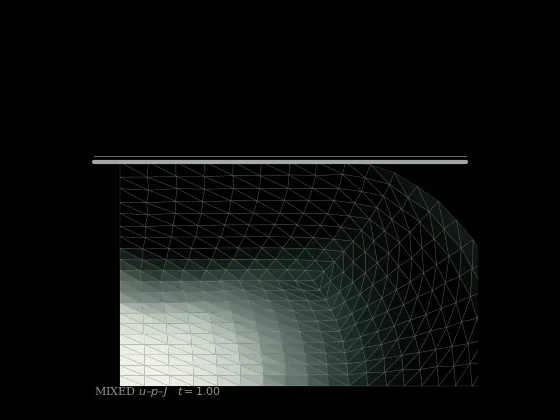
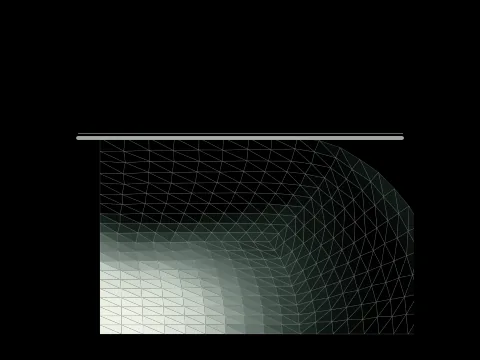
update bg

Changed region(s): [[0.1562, 0.3667, 0.875, 0.9472]]

diff --git a/stylesheet.css b/stylesheet.css
@@ -209,19 +209,27 @@ h3 {
 }
 
 .fem-simulation-compression {
-  --fem-opacity: 0.15;
-  top: 4%;
-  right: -3%;
-  width: clamp(420px, 42vw, 620px);
+  --fem-opacity: 0.14;
+  top: 7%;
+  right: 0;
+  width: clamp(300px, 32vw, 480px);
   transform: rotate(-1.5deg);
 }
 
 .fem-simulation-torsion {
   --fem-opacity: 0.13;
-  bottom: -3%;
-  left: -4%;
-  width: clamp(460px, 44vw, 680px);
+  bottom: 0;
+  left: 0;
+  width: clamp(360px, 36vw, 560px);
   transform: rotate(1deg);
+}
+
+.fem-simulation-wafer {
+  --fem-opacity: 0.12;
+  top: 34%;
+  right: 2%;
+  width: clamp(280px, 27vw, 420px);
+  transform: rotate(-1deg);
 }
 
 main,
@@ -1142,17 +1150,25 @@ main section[id] {
   }
 
   .fem-simulation-compression {
-    --fem-opacity: 0.1;
-    top: 7%;
-    right: -43%;
-    width: 112vw;
+    --fem-opacity: 0.09;
+    top: 9%;
+    right: -30%;
+    width: 92vw;
   }
 
   .fem-simulation-torsion {
-    --fem-opacity: 0.09;
+    --fem-opacity: 0.08;
     bottom: -4%;
-    left: -10%;
-    width: 108vw;
+    left: -18%;
+    width: 96vw;
+  }
+
+  .fem-simulation-wafer {
+    --fem-opacity: 0.075;
+    top: 43%;
+    right: -3%;
+    bottom: auto;
+    width: 72vw;
   }
 
 }

diff --git a/index.html b/index.html
@@ -31,8 +31,8 @@
   <div class="fem-simulation-backdrop" aria-hidden="true">
     <img
       class="fem-simulation fem-simulation-compression"
-      width="560"
-      height="420"
+      width="480"
+      height="360"
       alt=""
       decoding="async"
       fetchpriority="low"
@@ -41,13 +41,23 @@
     >
     <img
       class="fem-simulation fem-simulation-torsion"
-      width="640"
-      height="360"
+      width="560"
+      height="300"
       alt=""
       decoding="async"
       fetchpriority="low"
       data-motion-src="images/fem/hyperelastic-torsion.gif"
       data-static-src="images/fem/hyperelastic-torsion-poster.webp"
+    >
+    <img
+      class="fem-simulation fem-simulation-wafer"
+      width="480"
+      height="330"
+      alt=""
+      decoding="async"
+      fetchpriority="low"
+      data-motion-src="images/fem/wafer-bonding.gif"
+      data-static-src="images/fem/wafer-bonding-poster.webp"
     >
   </div>
   <a class="skip-link" href="#main-content">Skip to main content</a>

diff --git a/README.md b/README.md
@@ -71,11 +71,16 @@ KaTeX, TeX, or external math fonts.
 
 ## Solver-generated FEM backgrounds
 
-The two ambient hyperelastic animations in `images/fem/` were generated locally
-with FElupe 10.1.0, NumPy, Matplotlib, and Pillow from the existing `fem` Conda
+The three ambient FEM animations in `images/fem/` were generated locally with
+FElupe 10.1.0, NumPy, Matplotlib, and Pillow from the existing `fem` Conda
 environment. The quarter-circle animation uses a mixed displacement-pressure-volume
-formulation with rigid-plate contact; the three-dimensional animation uses a
-compressible Neo-Hookean solid under torsional loading.
+formulation with rigid-plate contact. The three-dimensional animation uses a
+compressible Neo-Hookean square-section rod, clamped at one end and shortened while
+the other end twists through 180 degrees.
+
+The quarter-wafer animation is reconstructed from the saved radial displacement
+history in the local `waferbonding_project` paper run. It shows the computed wafer
+surface evolving from its initial flat state to the final bonded deformation.
 
 The generation scripts, timestamped solution states, and individual rendered frames
 are intentionally kept outside this repository. Only the optimized GIFs and their
